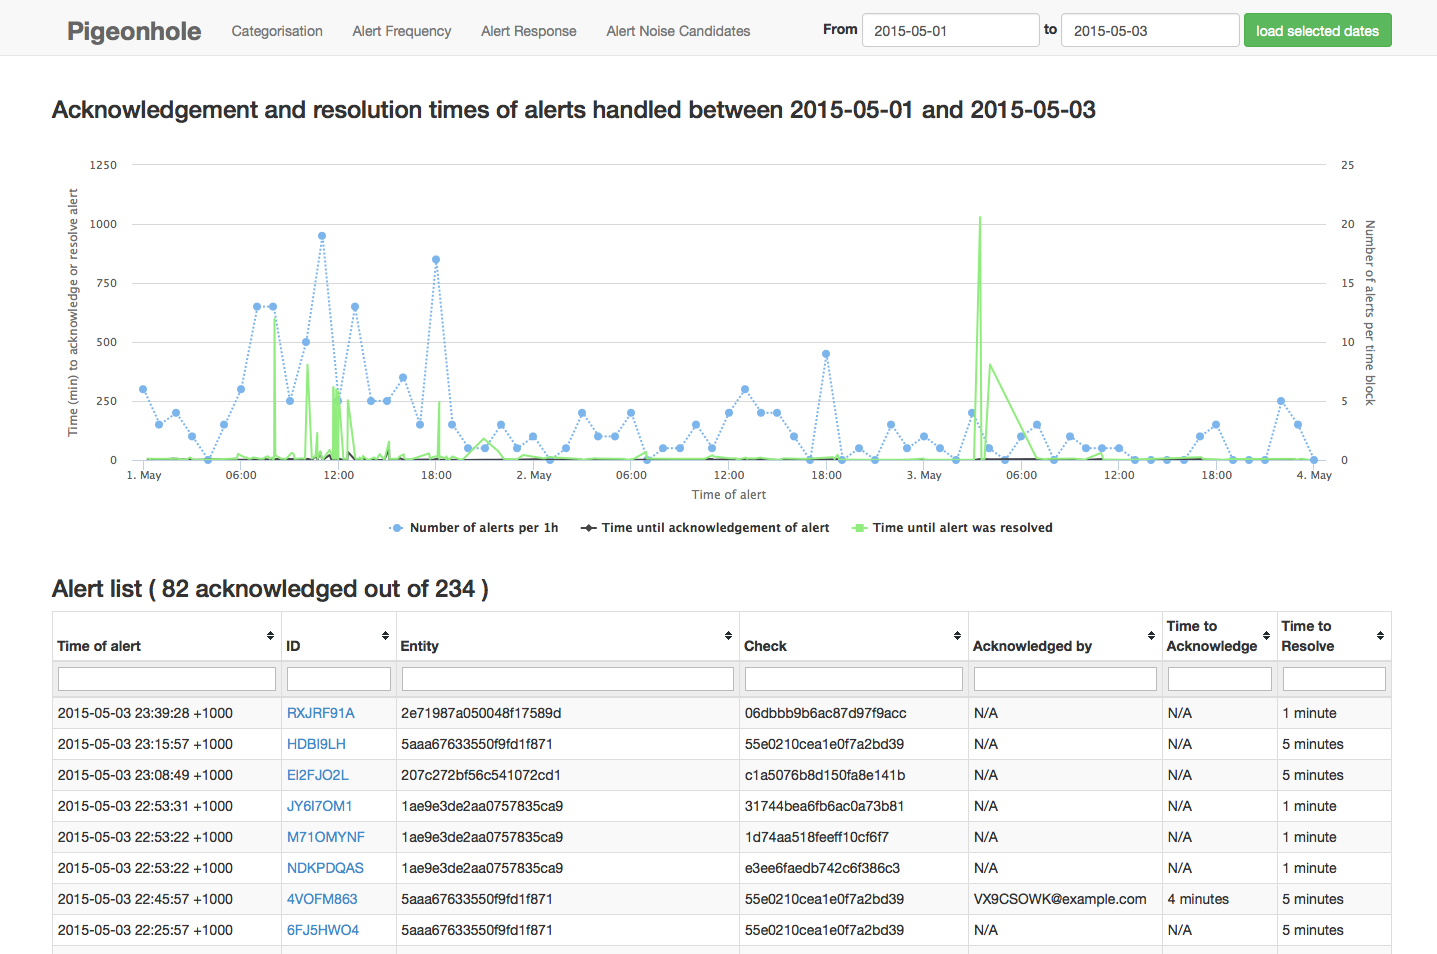
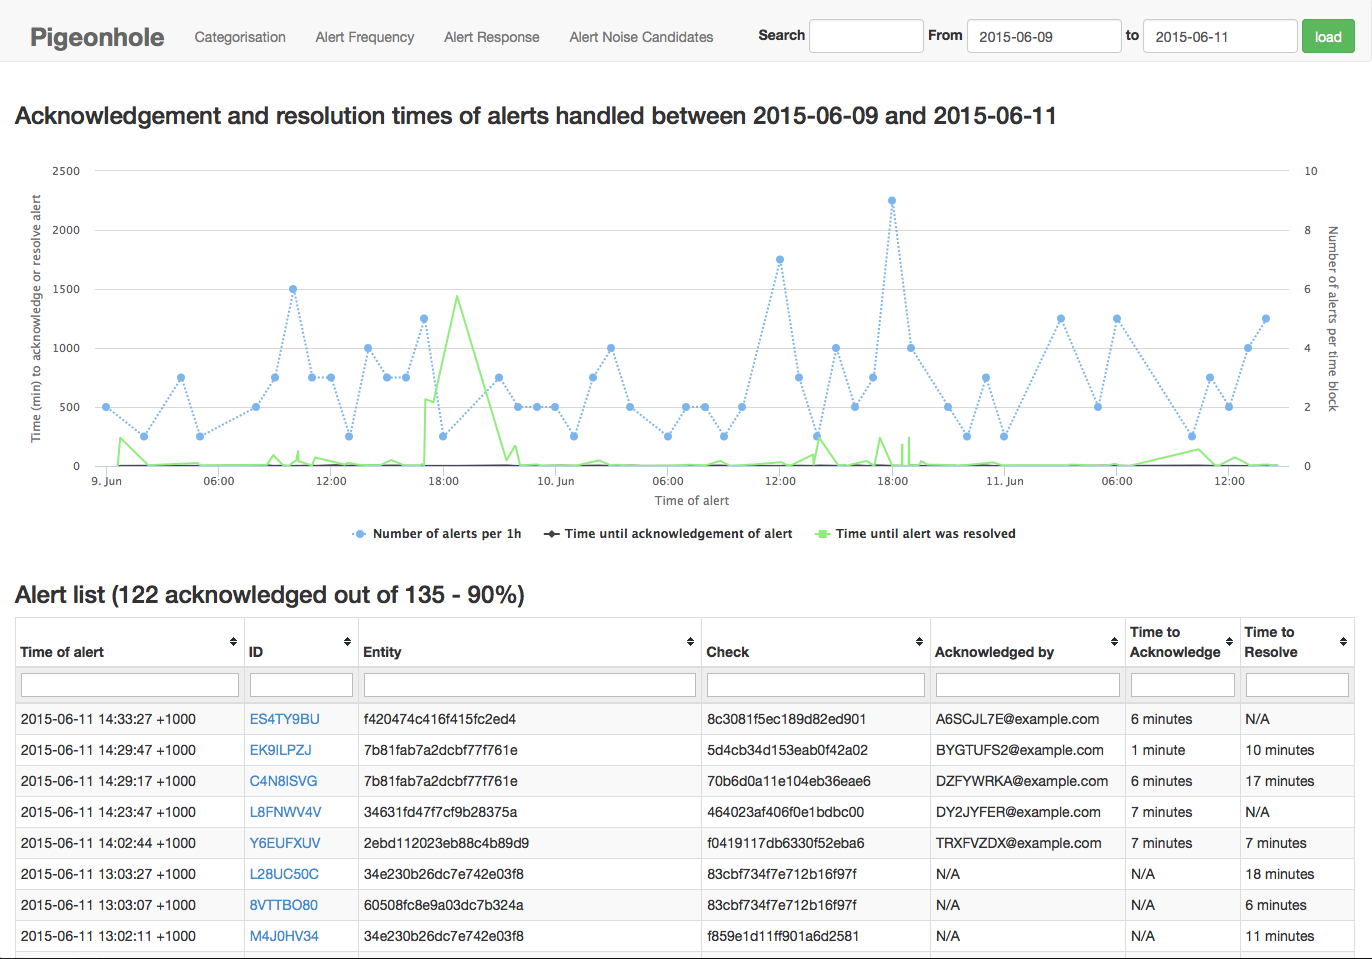
Update screenshots with new functionality

diff --git a/README.md b/README.md
@@ -15,7 +15,7 @@ After these have been installed, copy the config.toml.example file to config.tom
 
 Pigeonhole operates as a read-only user with the exception of the categorisation. If you're using the categorisation feature you'll have to add a read-write user as well.
 
-To setup the two users, the following commands can be invoked (works for InfluxDB 0.8.8): 
+To setup the two users, the following commands can be invoked (works for InfluxDB 0.8.8):
 
 ```
 INFLUX=http://localhost:8086
@@ -122,20 +122,24 @@ bundle exec ruby bin/alert_threshold_recommendations.rb --percent-to-remove 70 -
 
 ## Screenshots
 
+### Statistics (default) mode
+
+![Statistics Mode](screenshots/statistics.png?raw=true "Statistics Mode")
+
 ### Categorisation mode
 
 ![Categorisation Mode](screenshots/categorisation.png?raw=true "Categorisation Mode")
 
-### Breakdown mode
+### Frequency mode
 
-![Breakdown Mode](screenshots/breakdown.png?raw=true "Breakdown Mode")
+![Frequency Mode](screenshots/frequency.png?raw=true "Frequency Mode")
 
 ### Acknowledgement and resolution times mode
 
-![Breakdown Mode](screenshots/alert-response.png?raw=true "Alert Response Mode")
+![Alert Response Mode](screenshots/alert-response.png?raw=true "Alert Response Mode")
 
 ### Noise candidate mode
 
-![Breakdown Mode](screenshots/noise-candidates.png?raw=true "Noise Candidates Mode")
+![Noise Candidates Mode](screenshots/noise-candidates.png?raw=true "Noise Candidates Mode")
 
 We hope you find this useful!
